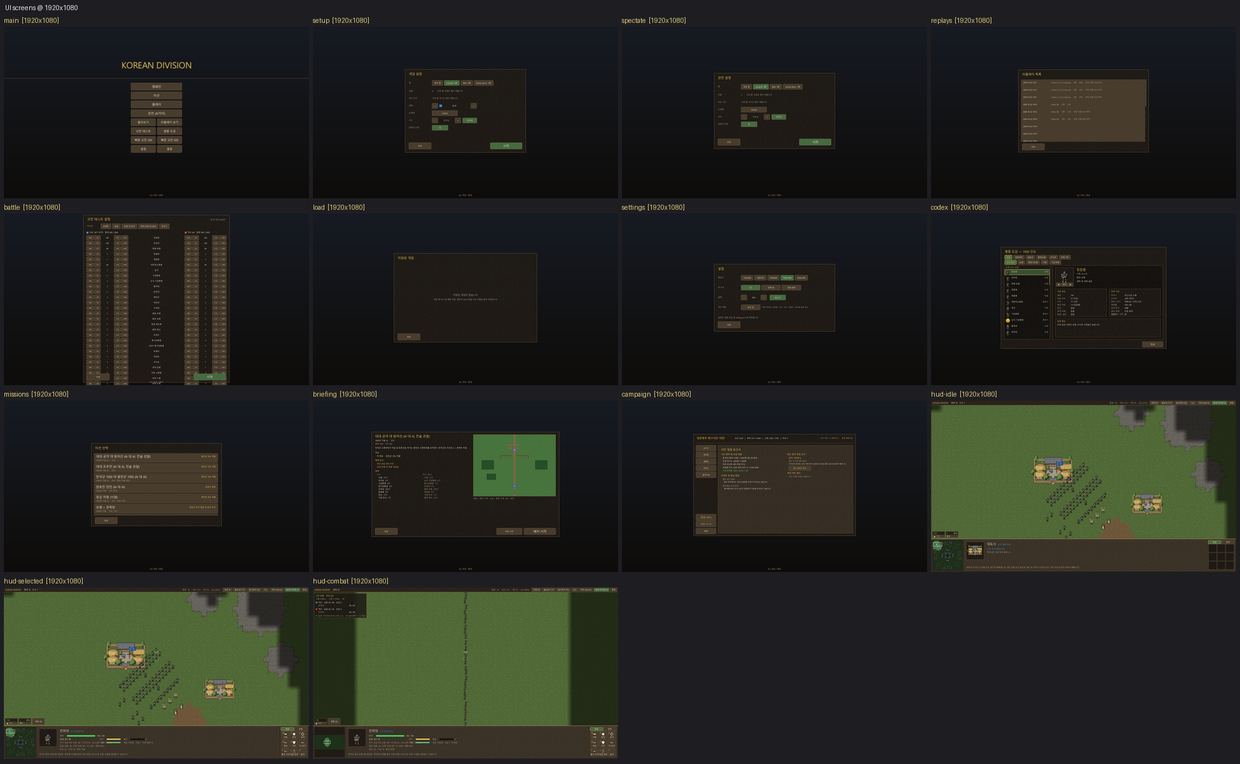
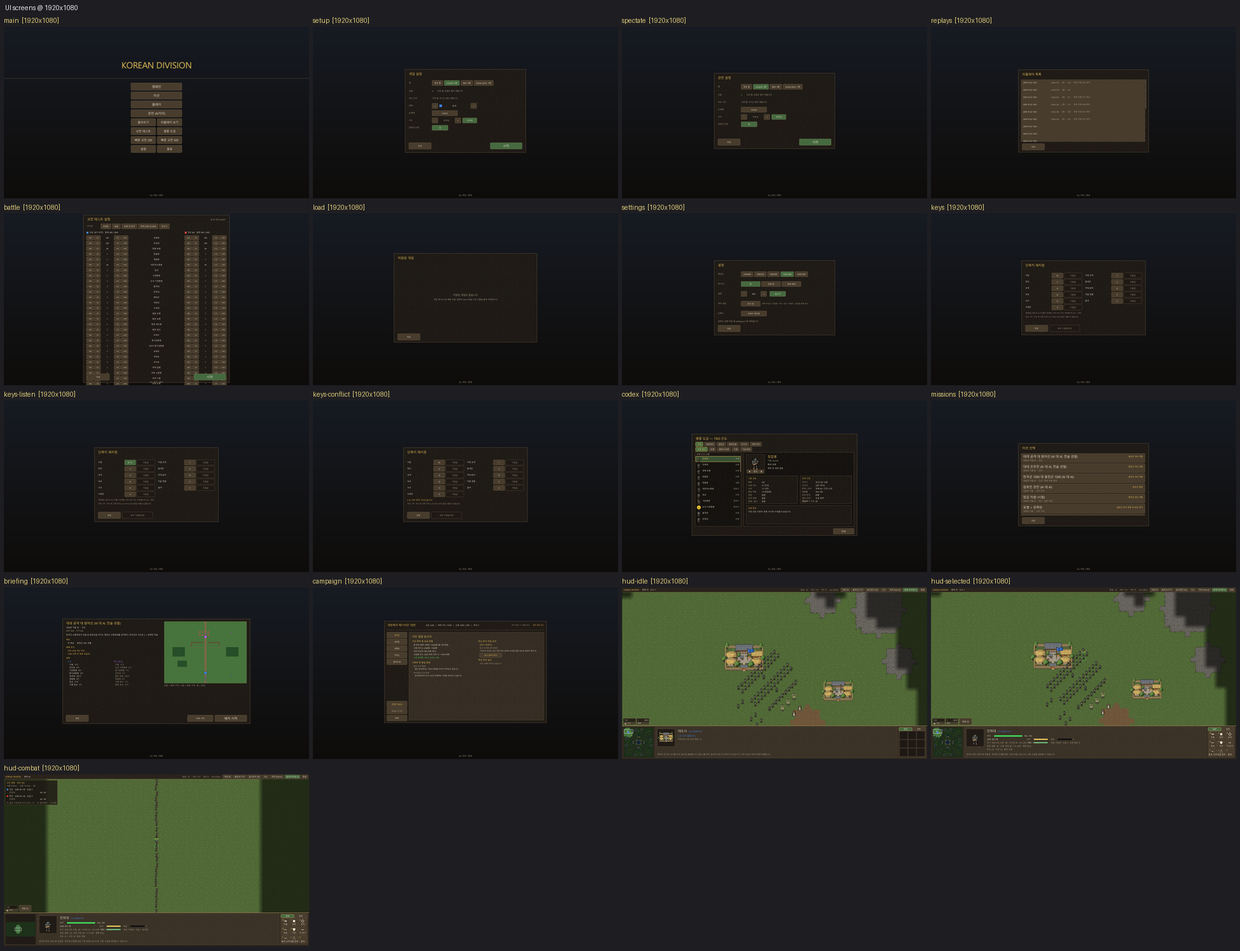
T38a: settings key remap screen (card command keys A-Z, conflict reject, settings.json round trip, reset), help/card reflect new keys

diff --git a/korean-division/src/Tests/UiIconsSelfTest.cs b/korean-division/src/Tests/UiIconsSelfTest.cs
@@ -118,8 +118,54 @@ public static class UiIconsSelfTest
             }
         }
         catch (Exception ex) { check(false, $"아이콘 테스트 중 예외: {ex.GetType().Name}: {ex.Message}\n{ex.StackTrace}"); }
+        Console.WriteLine("[단축키 재지정 (T38a)]");
+        try { CheckRemap(check); } catch (Exception ex) { check(false, $"단축키 재지정 테스트 예외: {ex.GetType().Name}: {ex.Message}\n{ex.StackTrace}"); }
         Console.WriteLine("[도움말 단축키 = CONTROLS.md]");
         try { CheckControlsDoc(check); } catch (Exception ex) { check(false, $"도움말 문서 동기 테스트 예외: {ex.GetType().Name}: {ex.Message}"); }
+    }
+
+    /// <summary>T38a: 단축키 재지정 — 충돌 거부 · settings.json 왕복 · 기본값 복원 · 손상 파일 방어 · 도움말/카드 반영. 임시 settings 파일 사용, 끝에 원복.</summary>
+    static void CheckRemap(Action<bool, string> check)
+    {
+        string tmp = System.IO.Path.Combine(System.IO.Path.GetTempPath(), "kd_keys_" + Guid.NewGuid().ToString("N") + ".json");
+        var oldPath = KoreanDivision.UI.UserSettings.PathOverride;
+        var oldMap = new Dictionary<string, char>(KoreanDivision.UI.UserSettings.KeyMap);
+        try
+        {
+            KoreanDivision.UI.UserSettings.PathOverride = tmp;
+            KoreanDivision.UI.Bindings.ResetAll();
+            var move = Commands.Get("move")!; var stop = Commands.Get("stop")!;
+            check(KoreanDivision.UI.Bindings.KeyOf(move) == 'M', "기본: 이동 = M");
+            check(KoreanDivision.UI.Bindings.TrySet("move", 'S') != null && KoreanDivision.UI.Bindings.KeyOf(move) == 'M', "다른 명령(정지 S)이 쓰는 키는 거부, 키 그대로");
+            check(KoreanDivision.UI.Bindings.TrySet("move", 'F') != null, "고정 키(F 돌격 사격)는 거부");
+            check(KoreanDivision.UI.Bindings.TrySet("move", '1') != null, "글자 아닌 키는 거부");
+            check(KoreanDivision.UI.Bindings.TrySet("move", 'z') == null && KoreanDivision.UI.Bindings.KeyOf(move) == 'Z', "빈 키 Z 로 재지정 (소문자도 대문자로)");
+            check(KoreanDivision.UI.Bindings.TrySet("stop", 'M') == null, "비어진 기본 키 M 을 다른 명령이 쓸 수 있음");
+            check(KoreanDivision.UI.Bindings.All().Any(x => x.Key == "Z" && x.Text == move.Label) && KoreanDivision.UI.Bindings.All().Any(x => x.Key == "M" && x.Text == stop.Label), "도움말 일람(All)이 새 키를 반영");
+            check(KoreanDivision.UI.Bindings.RaylibKeyOf(move) == Raylib_cs.KeyboardKey.Z, "카드 단축키(RaylibKeyOf)가 새 키를 반영");
+            check(KoreanDivision.UI.Bindings.AllDefaults().Any(x => x.Key == "M" && x.Text == move.Label), "AllDefaults 는 기본 키 그대로");
+            KoreanDivision.UI.UserSettings.Save();
+            KoreanDivision.UI.UserSettings.KeyMap = new();
+            KoreanDivision.UI.UserSettings.Load();
+            check(KoreanDivision.UI.Bindings.KeyOf(move) == 'Z' && KoreanDivision.UI.Bindings.KeyOf(stop) == 'M', "settings.json 왕복 후 재지정 유지");
+            var all = Commands.UnitCommands.Select(KoreanDivision.UI.Bindings.KeyOf).ToList();
+            check(all.Distinct().Count() == all.Count, "재지정 뒤에도 카드 키 중복 없음");
+            KoreanDivision.UI.Bindings.TrySet("move", 'M');   // 기본값과 같으면 재지정 항목이 사라짐 (M 은 정지가 쓰는 중이라 거부)
+            check(KoreanDivision.UI.UserSettings.KeyMap.ContainsKey("move"), "기본 키가 남이 쓰는 중이면 복원 시도도 거부");
+            KoreanDivision.UI.Bindings.ResetAll();
+            check(KoreanDivision.UI.Bindings.KeyOf(move) == 'M' && KoreanDivision.UI.Bindings.KeyOf(stop) == 'S', "모두 기본값 복원");
+            // 손으로 망가뜨린 파일: 중복 · 고정 키 · 모르는 명령 · 숫자
+            File.WriteAllText(tmp, "{\"Keys\":{\"move\":\"K\",\"stop\":\"A\",\"nope\":\"Q\",\"hold\":\"7\",\"attack\":\"A\"}}");
+            KoreanDivision.UI.UserSettings.Load();
+            var all2 = Commands.UnitCommands.Select(KoreanDivision.UI.Bindings.KeyOf).ToList();
+            check(all2.Distinct().Count() == all2.Count && KoreanDivision.UI.Bindings.KeyOf(move) == 'M' && KoreanDivision.UI.Bindings.KeyOf(Commands.Get("hold")!) == 'H', "손상된 키 항목(고정 키 · 숫자 · 중복)은 버리고 키 중복 없음");
+        }
+        finally
+        {
+            KoreanDivision.UI.UserSettings.PathOverride = oldPath;
+            KoreanDivision.UI.UserSettings.KeyMap = oldMap;
+            try { File.Delete(tmp); } catch { }
+        }
     }
 
     /// <summary>T38b: docs/CONTROLS.md 「단축키 일람」 표 (BINDINGS 표지 사이) 가 Bindings.All() 과 한 줄도 어긋나지 않는다 (누락 0 · 잉여 0).</summary>
@@ -136,12 +182,12 @@ public static class UiIconsSelfTest
         check(b >= 0 && e > b, "CONTROLS.md 에 BINDINGS:BEGIN / END 표지가 있음");
         if (b < 0 || e <= b) return;
         var doc = lines.Skip(b + 1).Take(e - b - 1).Where(l => l.StartsWith("| `")).Select(l => l.TrimEnd()).ToList();
-        var code = KoreanDivision.UI.Bindings.All().Select(KoreanDivision.UI.Bindings.MarkdownRow).ToList();
+        var code = KoreanDivision.UI.Bindings.AllDefaults().Select(KoreanDivision.UI.Bindings.MarkdownRow).ToList();
         var missing = code.Except(doc).ToList();   // 코드에 있고 문서에 없음
         var extra = doc.Except(code).ToList();   // 문서에 있고 코드에 없음
         string detail = missing.Count + extra.Count > 0 ? Environment.NewLine + "  누락: " + string.Join(" / ", missing) + Environment.NewLine + "  잉여: " + string.Join(" / ", extra) : "";
         check(missing.Count == 0 && extra.Count == 0 && doc.Count == code.Count, $"CONTROLS.md 단축키 일람 = Bindings.All() (누락 {missing.Count}, 잉여 {extra.Count}){detail}");
         check(code.Distinct().Count() == code.Count, "Bindings.All() 에 같은 줄이 두 번 나오지 않음");
-        check(KoreanDivision.UI.Bindings.All().Any(x => x.Key == "F1"), "도움말 키 F1 이 Bindings 에 있음");
+        check(KoreanDivision.UI.Bindings.AllDefaults().Any(x => x.Key == "F1"), "도움말 키 F1 이 Bindings 에 있음");
     }
 }

diff --git a/korean-division/src/UI/MainMenu.cs b/korean-division/src/UI/MainMenu.cs
@@ -12,7 +12,7 @@ namespace KoreanDivision.UI;
 /// </summary>
 public sealed class MainMenu
 {
-    enum Page { Main, Setup, Replays, Battle, Load, Missions, Campaign, Settings, Codex }
+    enum Page { Main, Setup, Replays, Battle, Load, Missions, Campaign, Settings, Keys, Codex }
     CodexMenu? codex;
     CampaignMenu? campaign;
     MissionMenu? missions;   // 미션 선택 · 브리핑 (MissionMenu.cs)
@@ -62,6 +62,9 @@ public sealed class MainMenu
             case "replays": OpenReplays(); break;
             case "battle": page = Page.Battle; break;
             case "settings": page = Page.Settings; break;
+            case "keys": page = Page.Keys; break;
+            case "keys-listen": page = Page.Keys; listening = Commands.UnitCommands[0].Key; break;   // 스크린샷용: 첫 줄 입력 대기
+            case "keys-conflict": page = Page.Keys; keysMsg = Bindings.TrySet("move", 'S'); break;   // 스크린샷용: 충돌 거부 표시
             case "codex": page = Page.Codex; codex = new CodexMenu(); break;
             case "load": OpenLoad(); break;
             case "missions": page = Page.Missions; missions = new MissionMenu(); break;
@@ -99,7 +102,8 @@ public sealed class MainMenu
 
         if (Input.IsKeyPressed(KeyboardKey.Escape))
         {
-            if (page == Page.Main) ExitRequested = true;
+            if (page == Page.Keys) { if (listening != null) listening = null; else page = Page.Settings; }
+            else if (page == Page.Main) ExitRequested = true;
             else if (page == Page.Missions && missions?.Back() == true) { }   // 브리핑 → 미션 목록
             else page = Page.Main;
         }
@@ -114,6 +118,7 @@ public sealed class MainMenu
             case Page.Replays: DrawReplays(); break;
             case Page.Battle: DrawBattle(); break;
             case Page.Settings: DrawSettings(); break;
+            case Page.Keys: DrawKeys(); break;
             case Page.Load: DrawLoad(); break;
             case Page.Codex:
                 codex ??= new CodexMenu();
@@ -212,7 +217,7 @@ public sealed class MainMenu
 
     void DrawSettings()
     {
-        float pw = MathF.Min(760, screenW - 40), ph = 424;
+        float pw = MathF.Min(760, screenW - 40), ph = 470;
         var panel = new Rectangle((screenW - pw) / 2, MathF.Max(16, (screenH - ph) / 2 - 10), pw, ph);
         Ui.Panel(panel, Palette.Alpha(Palette.PanelDark, 235), Palette.HudTrim);
         Ui.Text(S.MenuSettings, panel.X + 24, panel.Y + 16, 26, Palette.Accent);
@@ -255,9 +260,59 @@ public sealed class MainMenu
         if (Button(new Rectangle(cx, y, 120, 32), UserSettings.ColorBlind ? S.SetColorBlindOn : S.SetColorBlindOff, true, UserSettings.ColorBlind))
         { UserSettings.ColorBlind = !UserSettings.ColorBlind; UserSettings.Save(); }
         Ui.Text(S.SetColorBlindNote, cx + 132, y + 8, 14, Palette.TextDim);
+        y += RowH + 16;
+
+        Ui.Text(S.SetKeys, lx, y + 6, 16, Palette.TextDim);
+        if (Button(new Rectangle(cx, y, 160, 32), S.SetKeysButton)) { page = Page.Keys; listening = null; keysMsg = null; }
 
         Ui.Text(S.SetFileNote, lx, panel.Y + panel.Height - 96, 16, Palette.TextDim);
         if (Button(new Rectangle(panel.X + 24, panel.Y + panel.Height - 62, 140, 40), S.MenuBack)) page = Page.Main;
+    }
+
+    // ---------------------------------------------------------------- 단축키 재지정 (T38a)
+
+    string? listening;   // 새 키를 기다리는 명령 Key
+    string? keysMsg;     // 마지막 거부 이유 (충돌 표시)
+
+    void DrawKeys()
+    {
+        var cmds = Commands.UnitCommands;
+        float pw = MathF.Min(780, screenW - 40), ph = 78 + 6 * 40 + 150;
+        var panel = new Rectangle((screenW - pw) / 2, MathF.Max(16, (screenH - ph) / 2 - 10), pw, ph);
+        Ui.Panel(panel, Palette.Alpha(Palette.PanelDark, 235), Palette.HudTrim);
+        Ui.Text(S.KeysTitle, panel.X + 24, panel.Y + 16, 26, Palette.Accent);
+
+        if (listening != null)   // A~Z 한 번 = 지정 시도 (충돌이면 거부)
+            for (char ch = 'A'; ch <= 'Z'; ch++)
+                if (Input.IsKeyPressed(Commands.Key(ch)))
+                {
+                    keysMsg = Bindings.TrySet(listening, ch);
+                    if (keysMsg == null) UserSettings.Save();
+                    listening = null;
+                    break;
+                }
+
+        float colW = (pw - 48 - 20) / 2;
+        for (int i = 0; i < cmds.Length; i++)
+        {
+            var c = cmds[i];
+            float x = panel.X + 24 + (i / 6) * (colW + 20), y = panel.Y + 78 + (i % 6) * 40;
+            bool changed = UserSettings.KeyMap.ContainsKey(c.Key);
+            Ui.Text(c.Label, x, y + 6, 16, Palette.Text);
+            var kr = new Rectangle(x + colW - 190, y, 70, 32);
+            bool wait = listening == c.Key;
+            if (Button(kr, wait ? S.KeysPress : Bindings.KeyOf(c).ToString(), true, wait || changed, 16))
+            { listening = wait ? null : c.Key; keysMsg = null; }
+            if (Button(new Rectangle(x + colW - 114, y, 114, 32), S.KeysReset, changed))
+            { keysMsg = Bindings.TrySet(c.Key, c.Hotkey); if (keysMsg == null) UserSettings.Save(); }   // 기본 키를 남이 쓰는 중이면 거부(사유 표시)
+        }
+        float by = panel.Y + 78 + 6 * 40 + 4;
+        if (keysMsg != null) Ui.Text(keysMsg, panel.X + 24, by, 16, Palette.Warning);
+        else Ui.Text(S.KeysHint, panel.X + 24, by, 14, Palette.TextDim);
+        Ui.Text(S.KeysFixedNote, panel.X + 24, by + 24, 14, Palette.TextDim);
+        if (Button(new Rectangle(panel.X + 24, panel.Y + ph - 62, 140, 40), S.MenuBack)) { page = Page.Settings; listening = null; }
+        if (Button(new Rectangle(panel.X + 176, panel.Y + ph - 62, 190, 40), S.KeysResetAll, UserSettings.KeyMap.Count > 0))
+        { Bindings.ResetAll(); UserSettings.Save(); keysMsg = null; }
     }
 
     // ---------------------------------------------------------------- 설정

diff --git a/korean-division/src/UI/Bindings.cs b/korean-division/src/UI/Bindings.cs
@@ -1,3 +1,5 @@
+using Raylib_cs;
+
 namespace KoreanDivision.UI;
 
 /// <summary>단축키 표 (콘솔 `keys` 와 docs/CONTROLS.md 의 근거). 카드 키는 Commands.UnitCommands 에서 생성해 어긋나지 않는다.</summary>
@@ -15,8 +17,70 @@ public static class Bindings
         ("F1", "도움말 (이 목록)"), ("F3", "일시정지"), ("F6/F7", "빠른 저장/불러오기"), ("Enter", "콘솔"), ("Esc", "취소/선택 해제"),
     };
 
+    /// <summary>표시용 일람 — 카드 키는 사용자 재지정(UserSettings.KeyMap)을 반영한다. 도움말 · 콘솔 `keys` 가 쓴다.</summary>
     public static IEnumerable<(string Key, string Text)> All() =>
+        KoreanDivision.Core.Commands.UnitCommands.Select(c => (KeyOf(c).ToString(), c.Label)).Concat(Extra);
+
+    /// <summary>기본 키만의 일람 — docs/CONTROLS.md 가 적는 것은 기본값이다 (문서 동기 테스트용).</summary>
+    public static IEnumerable<(string Key, string Text)> AllDefaults() =>
         KoreanDivision.Core.Commands.UnitCommands.Select(c => (c.Hotkey.ToString(), c.Label)).Concat(Extra);
+
+    // ---------------------------------------------------------------- 재지정 (T38a) — 대상 = 카드 명령 키 (A~Z). Extra 는 고정.
+
+    /// <summary>명령의 현재 키 (재지정이 있으면 그것, 없으면 기본).</summary>
+    public static char KeyOf(KoreanDivision.Core.CommandDef c) =>
+        UserSettings.KeyMap.TryGetValue(c.Key, out var k) ? k : c.Hotkey;
+
+    public static KeyboardKey RaylibKeyOf(KoreanDivision.Core.CommandDef c) => KoreanDivision.Core.Commands.Key(KeyOf(c));
+
+    /// <summary>카드 밖 고정 키 중 한 글자 문자 키 (재지정 대상이 쓸 수 없음).</summary>
+    public static bool IsReservedLetter(char ch) =>
+        char.ToUpperInvariant(ch) == 'R' ||   // R = 미션 중 (GameMission) 취소/강제 해제용 고정 키 — 표에는 없다
+        Extra.Any(e => e.Key.Length == 1 && char.ToUpperInvariant(e.Key[0]) == char.ToUpperInvariant(ch));
+
+    /// <summary>ch 를 cmdKey 에 지정할 수 없는 이유 (가능하면 null). 거부 표시용 문구.</summary>
+    public static string? Conflict(string cmdKey, char ch)
+    {
+        ch = char.ToUpperInvariant(ch);
+        if (ch < 'A' || ch > 'Z') return S.KeysErrLetter;
+        if (IsReservedLetter(ch)) return string.Format(S.KeysErrReserved, ch, Extra.FirstOrDefault(e => e.Key.Length == 1 && char.ToUpperInvariant(e.Key[0]) == ch).Text ?? "R");
+        foreach (var c in KoreanDivision.Core.Commands.UnitCommands)
+            if (c.Key != cmdKey && KeyOf(c) == ch) return string.Format(S.KeysErrUsed, ch, c.Label);
+        return null;
+    }
+
+    /// <summary>재지정 시도 — 충돌이면 거부하고 이유를 돌려준다. 기본값과 같으면 재지정을 지운다.</summary>
+    public static string? TrySet(string cmdKey, char ch)
+    {
+        var def = KoreanDivision.Core.Commands.Get(cmdKey);
+        if (def == null) return S.KeysErrLetter;
+        ch = char.ToUpperInvariant(ch);
+        var err = Conflict(cmdKey, ch);
+        if (err != null) return err;
+        if (ch == def.Hotkey) UserSettings.KeyMap.Remove(cmdKey); else UserSettings.KeyMap[cmdKey] = ch;
+        return null;
+    }
+
+    /// <summary>손으로 고친 settings.json 방어: 글자 아님 · 고정 키 · 중복인 재지정을 버린다 (기본 키가 이기고, 재지정끼리는 명령 Key 순).</summary>
+    public static void Sanitize()
+    {
+        foreach (var (cmd, ch) in UserSettings.KeyMap.ToList())
+            if (ch < 'A' || ch > 'Z' || IsReservedLetter(ch) || KoreanDivision.Core.Commands.Get(cmd)!.Hotkey == ch) UserSettings.KeyMap.Remove(cmd);
+        var defaults = KoreanDivision.Core.Commands.UnitCommands.Where(c => !UserSettings.KeyMap.ContainsKey(c.Key)).Select(c => c.Hotkey).ToHashSet();
+        var taken = new HashSet<char>(defaults);
+        foreach (var cmd in UserSettings.KeyMap.Keys.OrderBy(k => k, StringComparer.Ordinal).ToList())
+            if (!taken.Add(UserSettings.KeyMap[cmd])) UserSettings.KeyMap.Remove(cmd);
+        // 재지정을 버리면 그 명령의 기본 키가 되돌아와 다른 키와 겹칠 수 있다 — 겹치면 그 재지정도 버린다 (수렴할 때까지)
+        for (bool again = true; again;)
+        {
+            again = false;
+            var seen = new HashSet<char>();
+            foreach (var c in KoreanDivision.Core.Commands.UnitCommands.OrderBy(c => UserSettings.KeyMap.ContainsKey(c.Key) ? 1 : 0))
+                if (!seen.Add(KeyOf(c)) && UserSettings.KeyMap.Remove(c.Key)) { again = true; break; }
+        }
+    }
+
+    public static void ResetAll() => UserSettings.KeyMap.Clear();
 
     /// <summary>docs/CONTROLS.md 「단축키 일람」 표의 한 줄 형식 (문서 동기 테스트와 문서 갱신 공용).</summary>
     public static string MarkdownRow((string Key, string Text) b) => $"| `{b.Key}` | {b.Text} |";

diff --git a/korean-division/src/UI/UserSettings.cs b/korean-division/src/UI/UserSettings.cs
@@ -18,6 +18,9 @@ public static class UserSettings
     public static bool ColorBlind = false;   // 색각 대응 표식 (T27 ⑧, 기본 꺼짐)
     public static float Volume = 0.8f;   // 마스터 음량 (효과음 · 음성 공용 — Sfx.Volume)
 
+    /// <summary>카드 명령 키 재지정 (명령 Key -> 대문자 A~Z). 기본과 같은 것은 넣지 않는다. UI 전용 — 시뮬 · 저장 형식 무관 (T38a).</summary>
+    public static Dictionary<string, char> KeyMap = new();
+
     sealed class Data
     {
         public int Width { get; set; } = Config.ScreenWidth;
@@ -25,6 +28,7 @@ public static class UserSettings
         public string Mode { get; set; } = "windowed";
         public float Volume { get; set; } = 0.8f;
         public bool ColorBlind { get; set; } = false;
+        public Dictionary<string, string>? Keys { get; set; }
     }
 
     static WindowMode applied = WindowMode.Windowed;   // 지금 창이 실제로 있는 모드
@@ -43,6 +47,11 @@ public static class UserSettings
             Volume = Math.Clamp(float.IsNaN(d.Volume) ? 0.8f : d.Volume, 0f, 1f);
             ColorBlind = d.ColorBlind;
             Sfx.Volume = Volume;
+            KeyMap = new();
+            if (d.Keys != null)
+                foreach (var (cmd, v) in d.Keys)
+                    if (!string.IsNullOrEmpty(v) && KoreanDivision.Core.Commands.Get(cmd) != null) KeyMap[cmd] = char.ToUpperInvariant(v[0]);
+            Bindings.Sanitize();
         }
         catch (Exception e) when (e is IOException or JsonException or UnauthorizedAccessException) { }
     }
@@ -51,7 +60,7 @@ public static class UserSettings
     {
         try
         {
-            var d = new Data { Width = Width, Height = Height, Volume = Volume, ColorBlind = ColorBlind, Mode = Mode switch { WindowMode.Borderless => "borderless", WindowMode.Fullscreen => "fullscreen", _ => "windowed" } };
+            var d = new Data { Width = Width, Height = Height, Volume = Volume, ColorBlind = ColorBlind, Keys = KeyMap.Count == 0 ? null : KeyMap.OrderBy(kv => kv.Key, StringComparer.Ordinal).ToDictionary(kv => kv.Key, kv => kv.Value.ToString()), Mode = Mode switch { WindowMode.Borderless => "borderless", WindowMode.Fullscreen => "fullscreen", _ => "windowed" } };
             File.WriteAllText(FilePath, JsonSerializer.Serialize(d, new JsonSerializerOptions { WriteIndented = true }));
         }
         catch (Exception e) when (e is IOException or UnauthorizedAccessException) { }

diff --git a/korean-division/src/UI/Strings.cs b/korean-division/src/UI/Strings.cs
@@ -277,6 +277,18 @@ public static partial class S
     public const string SetColorBlindOff = "표식 끔";
     public const string SetColorBlindNote = "세력 색 말고 도형(원 · 사각 · 삼각 · 마름모 · 십자)을 함께 표시";
     public const string SetResolutionNote = "해상도는 '창' 모드에서만 바뀝니다.";
+    public const string SetKeys = "단축키";
+    public const string SetKeysButton = "단축키 재지정";
+    public const string KeysTitle = "단축키 재지정";
+    public const string KeysChange = "변경";
+    public const string KeysPress = "새 키...";
+    public const string KeysReset = "기본값";
+    public const string KeysResetAll = "모두 기본값으로";
+    public const string KeysHint = "'변경'을 누른 뒤 A~Z 키를 누르세요. 이미 쓰는 키는 거부됩니다. Esc = 취소.";
+    public const string KeysFixedNote = "숫자 · F키 · 카드 밖 고정 키(F K L O J W G I B N 등)는 바꿀 수 없습니다.";
+    public const string KeysErrLetter = "A~Z 글자 키만 지정할 수 있습니다.";
+    public const string KeysErrReserved = "{0} 는 고정 키입니다 ({1}).";
+    public const string KeysErrUsed = "{0} 는 이미 '{1}' 이(가) 씁니다.";
     public const string SetFileNote = "설정은 실행 파일 옆 settings.json 에 저장됩니다.";
     public const string MenuStart = "시작";
     public const string MenuSetupPlay = "게임 설정";

diff --git a/korean-division/src/Game.cs b/korean-division/src/Game.cs
@@ -356,7 +356,7 @@ public sealed partial class Game : IDisposable
             {
                 if (!CardAvailable(c, units)) continue;
                 bool active = PendingCommand == c.Key || (c.Key == "hold" && units.All(u => u.Order == UnitOrder.Hold)) || (c.Key == "scoutauto" && units.All(u => u.ScoutAuto));
-                list.Add(new CardButton(c.Key, c.Label, c.Tooltip, c.Hotkey.ToString(), Commands.Key(c.Hotkey), c.Col, c.Row, c.Key, true, active));
+                list.Add(new CardButton(c.Key, c.Label, c.Tooltip, KoreanDivision.UI.Bindings.KeyOf(c).ToString(), KoreanDivision.UI.Bindings.RaylibKeyOf(c), c.Col, c.Row, c.Key, true, active));
             }
             // 중대 명령: 돌격 사격 켜기 / 끄기 (기본 꺼짐 — 켜면 공격 이동 중 장교가 판단해 중대 단위로 걸으며 쏜다)
             var inf = units.Where(u => u.Company != null && u.Def.MarchFire && u.Def.Category == "infantry").ToList();

diff --git a/korean-division/tasks/T38a-settings-keys.md b/korean-division/tasks/T38a-settings-keys.md
@@ -1,0 +1,19 @@
+# T38a 설정 메뉴 완성: 단축키 재지정 (+ 전투 중 설정 진입)
+- id: T38a | 역할: feature | 등급: D中 H1 (R2 S<=100k Wlight)
+- 선행(blockedBy): T38b (도움말이 Bindings 단일 출처를 먼저 세운 뒤) | 후행: T38g
+- 핫스팟: UI/UserSettings.cs(키 맵 저장) · UI/Bindings.cs · Core/Commands.cs(Hotkey 읽기만) · Game.HandleKeyboard/HandleGlobalKeys · MainMenu.DrawSettings · Strings.cs · CONTROLS.md. 시뮬/저장 형식 무변경(FV 불변)
+- 브랜치: t38a-settings-keys (base = ui/t38b-help-overlay) | 상태: wip-ready | 담당: feature(Sonnet)
+## 이미 있음 (코드 확인 t27-cmd-ui2)
+해상도 5종 · 창 모드 3종 · 음량 · 색각 대응 = MainMenu.DrawSettings + UserSettings(settings.json). 없는 것 = 단축키 재지정, 전투 중 설정 진입.
+## 확정 결정 (사용자 원문+날짜, 변경 금지)
+- ROADMAP_LONG 단기 로드맵 3 (2026-10-21 이관): "설정 메뉴 (해상도 · 창 모드 · 음량 · 단축키 재지정)". 재지정 범위·충돌 규칙은 확인 필요 (UI_BACKLOG Q1).
+## 범위 밖
+해상도/모드/음량 UI 재작업 · 숫자키 연대/대대 키 설계(T08 결정 9) · 저장 형식 호환 정책 · 충돌 로그.
+## 수용 기준
+1) 카드 키(Commands.UnitCommands)와 Extra 키 중 재지정 대상 목록이 Bindings 한 곳에서 생성. 2) 재지정 -> settings.json 왕복 -> 재시작 후 유지. 3) 키 충돌 거부(표시) + 기본값 복원 버튼. 4) 도움말/카드 라벨/CONTROLS 생성물이 새 키를 반영. 5) build 오류 0 · uifuzz 30 예외 0 · detcheck 불변.
+## 측정
+KD_SELFTEST_ONLY=<ui/command 그룹> (+키 맵 왕복 테스트 신규), --uifuzz 30, detcheck. 사용자 검수: 설정 화면 스크린샷 시트(1280x720).
+## 결과
+기본값 답(카드 가정): ① 재지정 대상 = 카드 명령 11개(Commands.UnitCommands)만, A~Z. Extra 고정 키(F K L O J W G I B N · 숫자 · F키 · 미션 R)는 불가. ② 충돌 = 거부 + 사유 표시(교환·자동 이동 없음). ③ 줄별 `기본값` + `모두 기본값으로`. ④ 전투 중 설정 진입 = 이번 범위 밖(시작 화면 설정 → 단축키 재지정만; 제안). ⑤ CONTROLS 표·동기 테스트 = 기본 키(Bindings.AllDefaults), 도움말·`keys`·카드 라벨 = 바꾼 키(Bindings.All).
+구현: Bindings.KeyOf/TrySet/Conflict/Sanitize/ResetAll, UserSettings.KeyMap(settings.json `Keys`, 기본과 다른 것만; 손상 항목 방어), MainMenu Page.Keys(설정 → 단축키 재지정, 변경 클릭 후 A~Z), Game.BuildUnitCard 가 KeyOf 사용. 시뮬·저장 형식·FormatVersion 무변경.
+검증: build 오류 0 · KD_SELFTEST_ONLY=uiicons PASS(재지정 14건 신규 + CONTROLS 동기) · detcheck GOLDEN match · uifuzz 30 예외 0 · uifuzz 30 --fuzz-menu 예외 0 · 시트 docs/art_review/ui_sheet_{1024x640,1280x720,1920x1080,all}.png (keys · keys-listen · keys-conflict 포함).

diff --git a/korean-division/docs/CONTROLS.md b/korean-division/docs/CONTROLS.md
@@ -352,6 +352,8 @@
 
 게임 안에서 `F1` 을 누르면 이 표와 같은 내용(`Bindings.All()`)을 도움말 화면으로 보여 준다 (일시정지 · 종료 화면에서도 열림; `F1` · `Esc` · 바깥 클릭으로 닫기, 휠 · `↑` `↓` · `PgUp` `PgDn` 으로 스크롤). 아래 표는 `Bindings.All()` 과 한 줄도 어긋나면 안 된다 — `KD_SELFTEST_ONLY=uiicons` 가 표지 사이를 비교해 누락 · 잉여가 있으면 실패한다. 키를 바꾸면 `src/UI/Bindings.cs` 와 이 표를 함께 고친다.
 
+**재지정 (T38a)**: 시작 화면 「설정」→「단축키 재지정」에서 카드 명령 11개의 키(`A`~`Z`)를 바꾼다 — `변경` 누르고 새 키, 이미 쓰는 키 · 아래 표의 고정 키(`R` 포함)는 거부(사유 표시), 줄마다 `기본값` · `모두 기본값으로`. 바꾼 것만 `settings.json` 의 `Keys` 에 저장된다. 이 표(와 CONTROLS 동기 테스트)는 **기본 키**(`Bindings.AllDefaults()`)이고, 게임 안 `F1` 도움말 · 콘솔 `keys` · 카드 라벨은 바꾼 키(`Bindings.All()`)를 보인다.
+
 <!-- BINDINGS:BEGIN -->
 | 키 | 동작 |
 |---|---|
